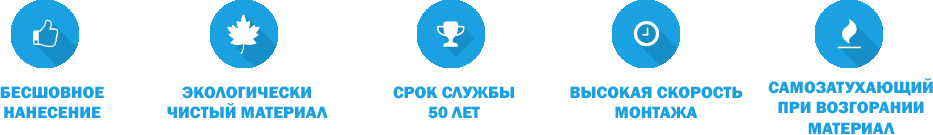
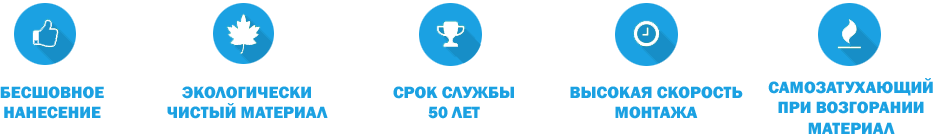
chanhe theme

diff --git a/oleg_izolation/oleg_izolation/Content/Css/style.css b/oleg_izolation/oleg_izolation/Content/Css/style.css
@@ -1,4 +1,4 @@
-@font-face {
+@font-face {
 	font-family:'pfdindisplaypro';
 	src: url('../fonts/pfdindisplaypro-reg.ttf');
 }
@@ -208,7 +208,7 @@ body {
 }
 
 a {
-    color: #3eb846;
+    color: #1ba1e2;
     text-decoration: underline;
 }
 
@@ -289,7 +289,7 @@ h6 {
 
 .input,
 .textarea {
-    border: 1px solid #3eb846;
+    border: 1px solid #1ba1e2;
 }
 
 .button {
@@ -299,7 +299,7 @@ h6 {
     outline: none;
     text-decoration: none;
     color: #fff;
-    background: #3eb846;
+    background: #1ba1e2;
     font-size: 20px;
     line-height: 100%;
     cursor: pointer;
@@ -307,11 +307,13 @@ h6 {
     box-shadow: 0 1px 2px 0 rgba(0,0,0,0.6);
     border-radius: 3px;
 }
-
+#send {
+    cursor: pointer;
+}
 .button:hover,
 .button:focus,
 .button:active {
-    color: #3eb846;
+    color: #1ba1e2;
     background: #fff;
 }
 
@@ -478,7 +480,7 @@ h6 {
 
 #header .top-menu .menu {
     list-style-position: outside;
-	background:#007848;
+	background:#1ba1e2;
 }
 
 #header .top-menu .menu li {
@@ -519,7 +521,7 @@ h6 {
 #header .top-menu .menu > li > a:active,
 #header .top-menu .menu > li:hover > a,
 #header .top-menu .menu > li.active > a {
-    background: #50b848;
+    background: #178ec7;
 }
 
 #header .top-menu .menu ul {
@@ -638,7 +640,7 @@ h6 {
 	margin-top: -20px;
 }
 .menu_left{
-	background:#007848;
+	background:#1ba1e2;
 	padding: 0 0px 25px;
 
 }
@@ -651,7 +653,7 @@ h6 {
 }
 
 #sidebar .sidebar-block .title-sidebar {
-    color: #50b848;
+    color: #8cdaff;
     font:30px/30px pfdindisplaypro-bold;
     margin: 20px 0 20px;
     padding-top:22px;
@@ -751,7 +753,7 @@ h6 {
 }
 
 #sidebar .sidebar-block .menu > li:hover {
-	background: #50b848;
+	background: #178ec7;
 }
 
 #sidebar .sidebar-block .menu > li > a:hover,
@@ -768,7 +770,7 @@ h6 {
 
 #sidebar .sidebar-block .menu > li > a:active,
 #sidebar .sidebar-block .menu > li.active > a {
-	background: #50b848;
+	background: #178ec7;
 	/* 
 	border-bottom: 30px solid #50b848;
     border-left: 0px solid transparent;
@@ -916,7 +918,7 @@ h6 {
 
 #article .article-inner h1,
 #article .article-inner h2 {
-    color: #007848;
+    color: #178ec7;
     font-size: 20px;
     line-height: 140%;
     margin: 0 0 15px;
@@ -1682,7 +1684,7 @@ h6 {
     line-height: 120%;
     margin: 0 auto;
     width: 1000px;
-	background:#007848;
+	background:#178ec7;
 }
 
 #footer a {
@@ -1694,7 +1696,7 @@ h6 {
 #footer a:active {
 }
 #footer h4 {
-    color:#50b848;
+    color:#8cdaff;
 }
 #footer .info-block {
     float: left;
@@ -2437,7 +2439,7 @@ textarea.error {
 }
 
 .phone-header-color {
-    color:#50b848;
+    color:#1ba1e2;
 }
 .icons-color {
     color:white;
